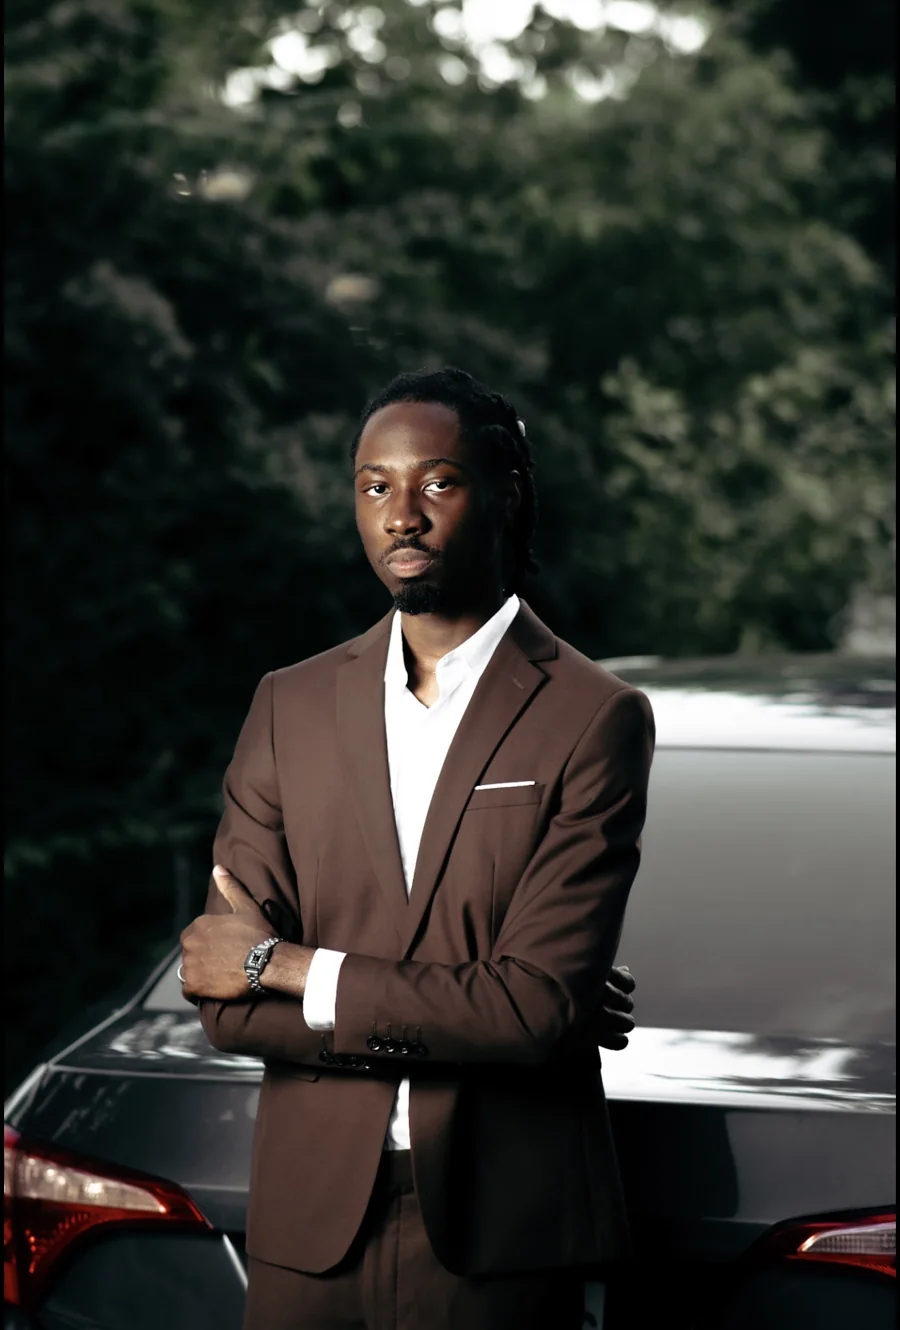
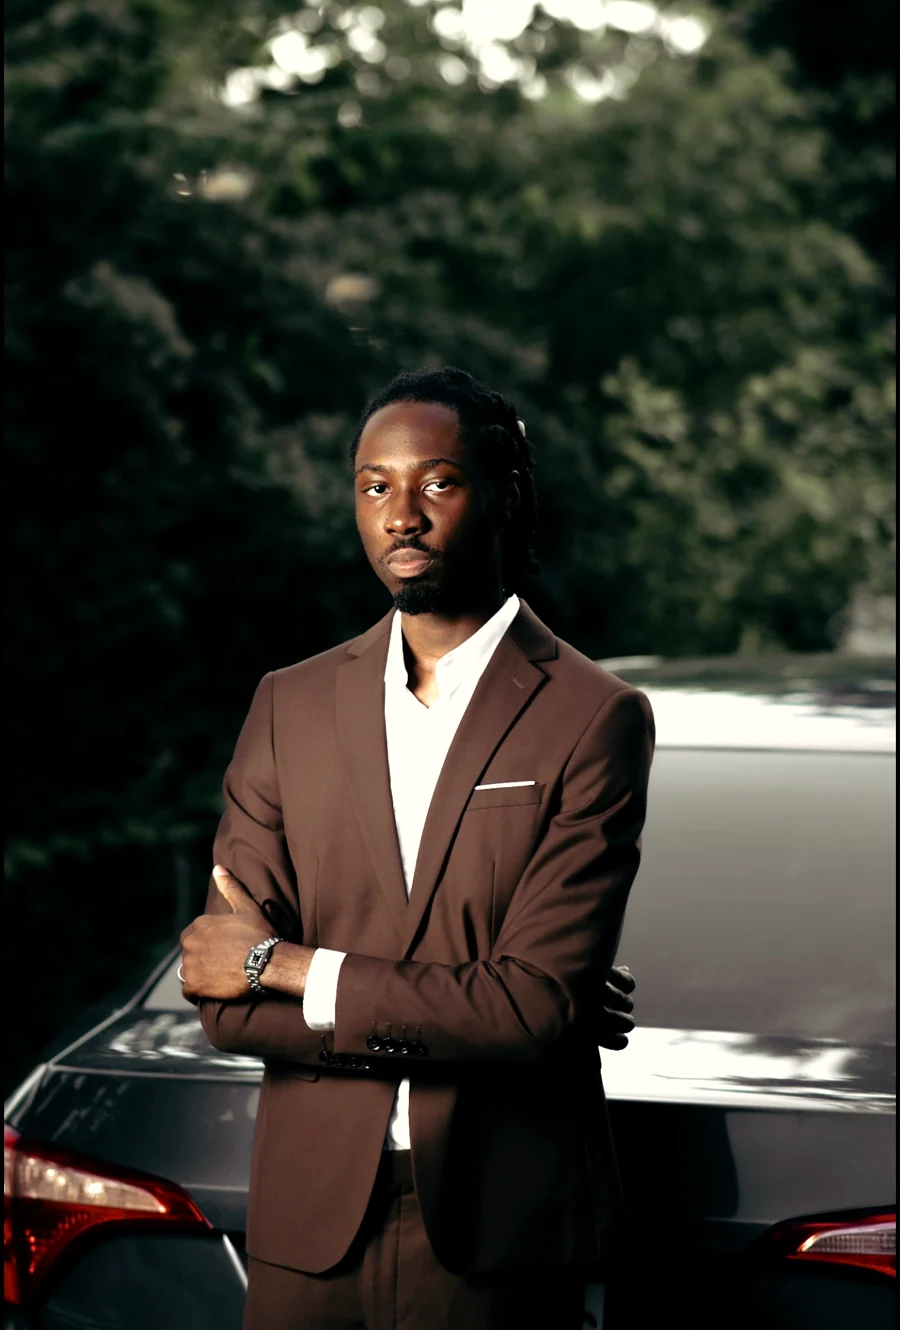
Fond anthracite chaud et ajout d'image pour Laly

diff --git a/css/theme-classe.css b/css/theme-classe.css
@@ -2,20 +2,20 @@
    THÈME « CLASSE » — Kelyan Clark Tahe
    Se charge APRÈS style.css et ne fait que le surcharger.
    Mise en page : éditoriale, beaucoup d'air, portrait en grand format,
-   palette tirée de la photo (vert forêt profond, ivoire, cognac du costume).
+   palette anthracite chaud, ivoire et cognac (la couleur du costume).
 ══════════════════════════════════════════════════════════════════ */
 
 :root {
   /* Palette */
-  --ink:          #0E1210;   /* fond : vert forêt presque noir      */
-  --ink-2:        #131915;   /* sections alternées                   */
-  --surface:      #182019;   /* cartes                               */
+  --ink:          #151413;   /* fond : anthracite chaud             */
+  --ink-2:        #1C1A18;   /* sections alternées                   */
+  --surface:      #23201D;   /* cartes                               */
   --ivory:        #ECE4D6;   /* texte principal                      */
   --ivory-soft:   #B5AE9F;   /* texte secondaire                     */
   --cognac:       #B9825A;   /* accent, la couleur du costume        */
   --cognac-deep:  #94653F;   /* survol                               */
-  --sage:         #8C9A8C;   /* petites étiquettes                   */
-  --line:         rgba(236, 228, 214, 0.12);
+  --sage:         #A99E91;   /* petites étiquettes                   */
+  --line:         rgba(236, 228, 214, 0.13);
 
   /* Typographie */
   --font-display: 'Cormorant Garamond', 'Times New Roman', serif;
@@ -74,7 +74,7 @@ h1, h2, h3 { font-weight: 600; letter-spacing: -0.01em; text-wrap: balance; }
 .btn:focus, .btn.show { box-shadow: 0 0 0 0.2rem rgba(185, 130, 90, 0.35) !important; }
 
 /* ── Navigation ── */
-#main-nav { background: rgba(14, 18, 16, 0.96); border-bottom: 1px solid var(--line); }
+#main-nav { background: rgba(21, 20, 19, 0.97); border-bottom: 1px solid var(--line); }
 .navbar-brand {
   font-family: var(--font-display);
   font-weight: 600;
@@ -98,7 +98,7 @@ h1, h2, h3 { font-weight: 600; letter-spacing: -0.01em; text-wrap: balance; }
   min-height: 0;
   padding: calc(var(--nav-height) + 4.5rem) 0 5.5rem;
   background:
-    radial-gradient(ellipse at 85% 30%, rgba(140, 154, 140, 0.10) 0%, transparent 55%),
+    radial-gradient(ellipse at 80% 35%, rgba(185, 130, 90, 0.10) 0%, transparent 60%),
     var(--ink);
   text-align: left;
 }
@@ -181,7 +181,6 @@ h1, h2, h3 { font-weight: 600; letter-spacing: -0.01em; text-wrap: balance; }
   aspect-ratio: 3 / 4;
   object-fit: cover;
   object-position: center 28%;
-  filter: saturate(0.92) contrast(1.03);
 }
 .hero-portrait figcaption {
   position: relative;
@@ -241,7 +240,6 @@ h1, h2, h3 { font-weight: 600; letter-spacing: -0.01em; text-wrap: balance; }
 }
 .project-feature:hover { border-color: rgba(185, 130, 90, 0.55); }
 .feature-title { font-family: var(--font-display); color: var(--ivory); font-size: clamp(2rem, 3.4vw, 2.6rem); font-weight: 600; }
-.feature-media img { filter: saturate(0.9); }
 
 .project-card { background: var(--surface); border: 1px solid var(--line); border-radius: var(--radius-card); box-shadow: none; }
 .project-card:hover { border-color: rgba(185, 130, 90, 0.55); transform: translateY(-4px); }

diff --git a/index.html b/index.html
@@ -8,7 +8,7 @@
   <meta property="og:title" content="Kelyan Clark Tahe — Portfolio">
   <meta property="og:description" content="Étudiant en génie logiciel (coop) à l'Université d'Ottawa. Projets web full-stack, temps réel et UI/UX.">
   <meta property="og:image" content="assets/portrait.webp">
-  <meta name="theme-color" content="#0E1210">
+  <meta name="theme-color" content="#151413">
 
   <title>Kelyan Clark Tahe — Portfolio</title>
 
@@ -420,16 +420,17 @@
           <!-- LALY -->
           <div class="col project-item reveal" data-category="web">
             <article class="project-card h-100">
-              <a class="project-cover cover-icon cover-laly" href="https://laly-boutique.vercel.app/" target="_blank" rel="noopener" aria-label="Ouvrir la boutique LALY" data-i18n-attr="aria-label:p.laly.open">
-                <i class="bi bi-gem" aria-hidden="true"></i>
+              <a class="project-cover" href="https://laly-boutique.vercel.app/" target="_blank" rel="noopener" aria-label="Ouvrir la boutique LALY" data-i18n-attr="aria-label:p.laly.open">
+                <img src="assets/laly-sacs.webp" alt="Sacs d'emballage aux couleurs de la marque LALY" data-i18n-attr="alt:p.laly.alt" width="1200" height="852" loading="lazy" decoding="async">
               </a>
               <div class="project-body">
                 <div class="project-meta"><span class="status status-live" data-i18n="status.v1">En ligne · V1</span><span data-i18n="p.laly.cat">E-commerce · Client réel</span></div>
                 <h3>LALY</h3>
                 <p data-i18n="p.laly.desc">Boutique en ligne de chaînes et bijoux pour une marque basée à Abidjan : collections, catalogue, fiches produits, paiement par Wave en FCFA et livraison à Abidjan.</p>
+                <p class="project-highlight" data-i18n="p.laly.admin"><strong>Espace admin :</strong> la cliente gère elle-même sa boutique depuis un espace d'administration privé, protégé par un compte et réservé à elle seule.</p>
                 <p class="project-highlight" data-i18n="p.laly.step"><strong>Contraintes :</strong> budget zéro et un univers rose poudré et or défini avec la cliente.</p>
                 <ul class="tech-list">
-                  <li>Supabase</li><li data-i18n="p.laly.t1">Paiement Wave</li><li>Figma</li><li data-i18n="p.laly.t2">Design responsive</li>
+                  <li>Supabase</li><li data-i18n="p.laly.t1">Paiement Wave</li><li data-i18n="p.laly.t3">Espace admin privé</li><li>Figma</li><li data-i18n="p.laly.t2">Design responsive</li>
                 </ul>
                 <div class="project-links">
                   <a href="https://laly-boutique.vercel.app/" target="_blank" rel="noopener" class="btn btn-primary flex-fill" data-i18n="p.palma.btn">Voir la boutique</a>

diff --git a/js/i18n.js b/js/i18n.js
@@ -153,6 +153,9 @@ window.I18N_EN = {
   'p.laly.cat': 'E-commerce · Real client',
   'p.laly.desc': 'Online store for chains and jewelry for a brand based in Abidjan: collections, catalog, product pages, Wave payment in FCFA and delivery within Abidjan.',
   'p.laly.step': '<strong>Constraints:</strong> zero budget and a powder pink and gold look defined with the client.',
+  'p.laly.alt': 'Shopping bags in the LALY brand colors',
+  'p.laly.admin': '<strong>Admin area:</strong> the client manages her store herself from a private admin area, protected by an account and reserved for her alone.',
+  'p.laly.t3': 'Private admin area',
   'p.laly.t1': 'Wave payment',
   'p.laly.t2': 'Responsive design',
   'status.v1': 'Live · V1',
